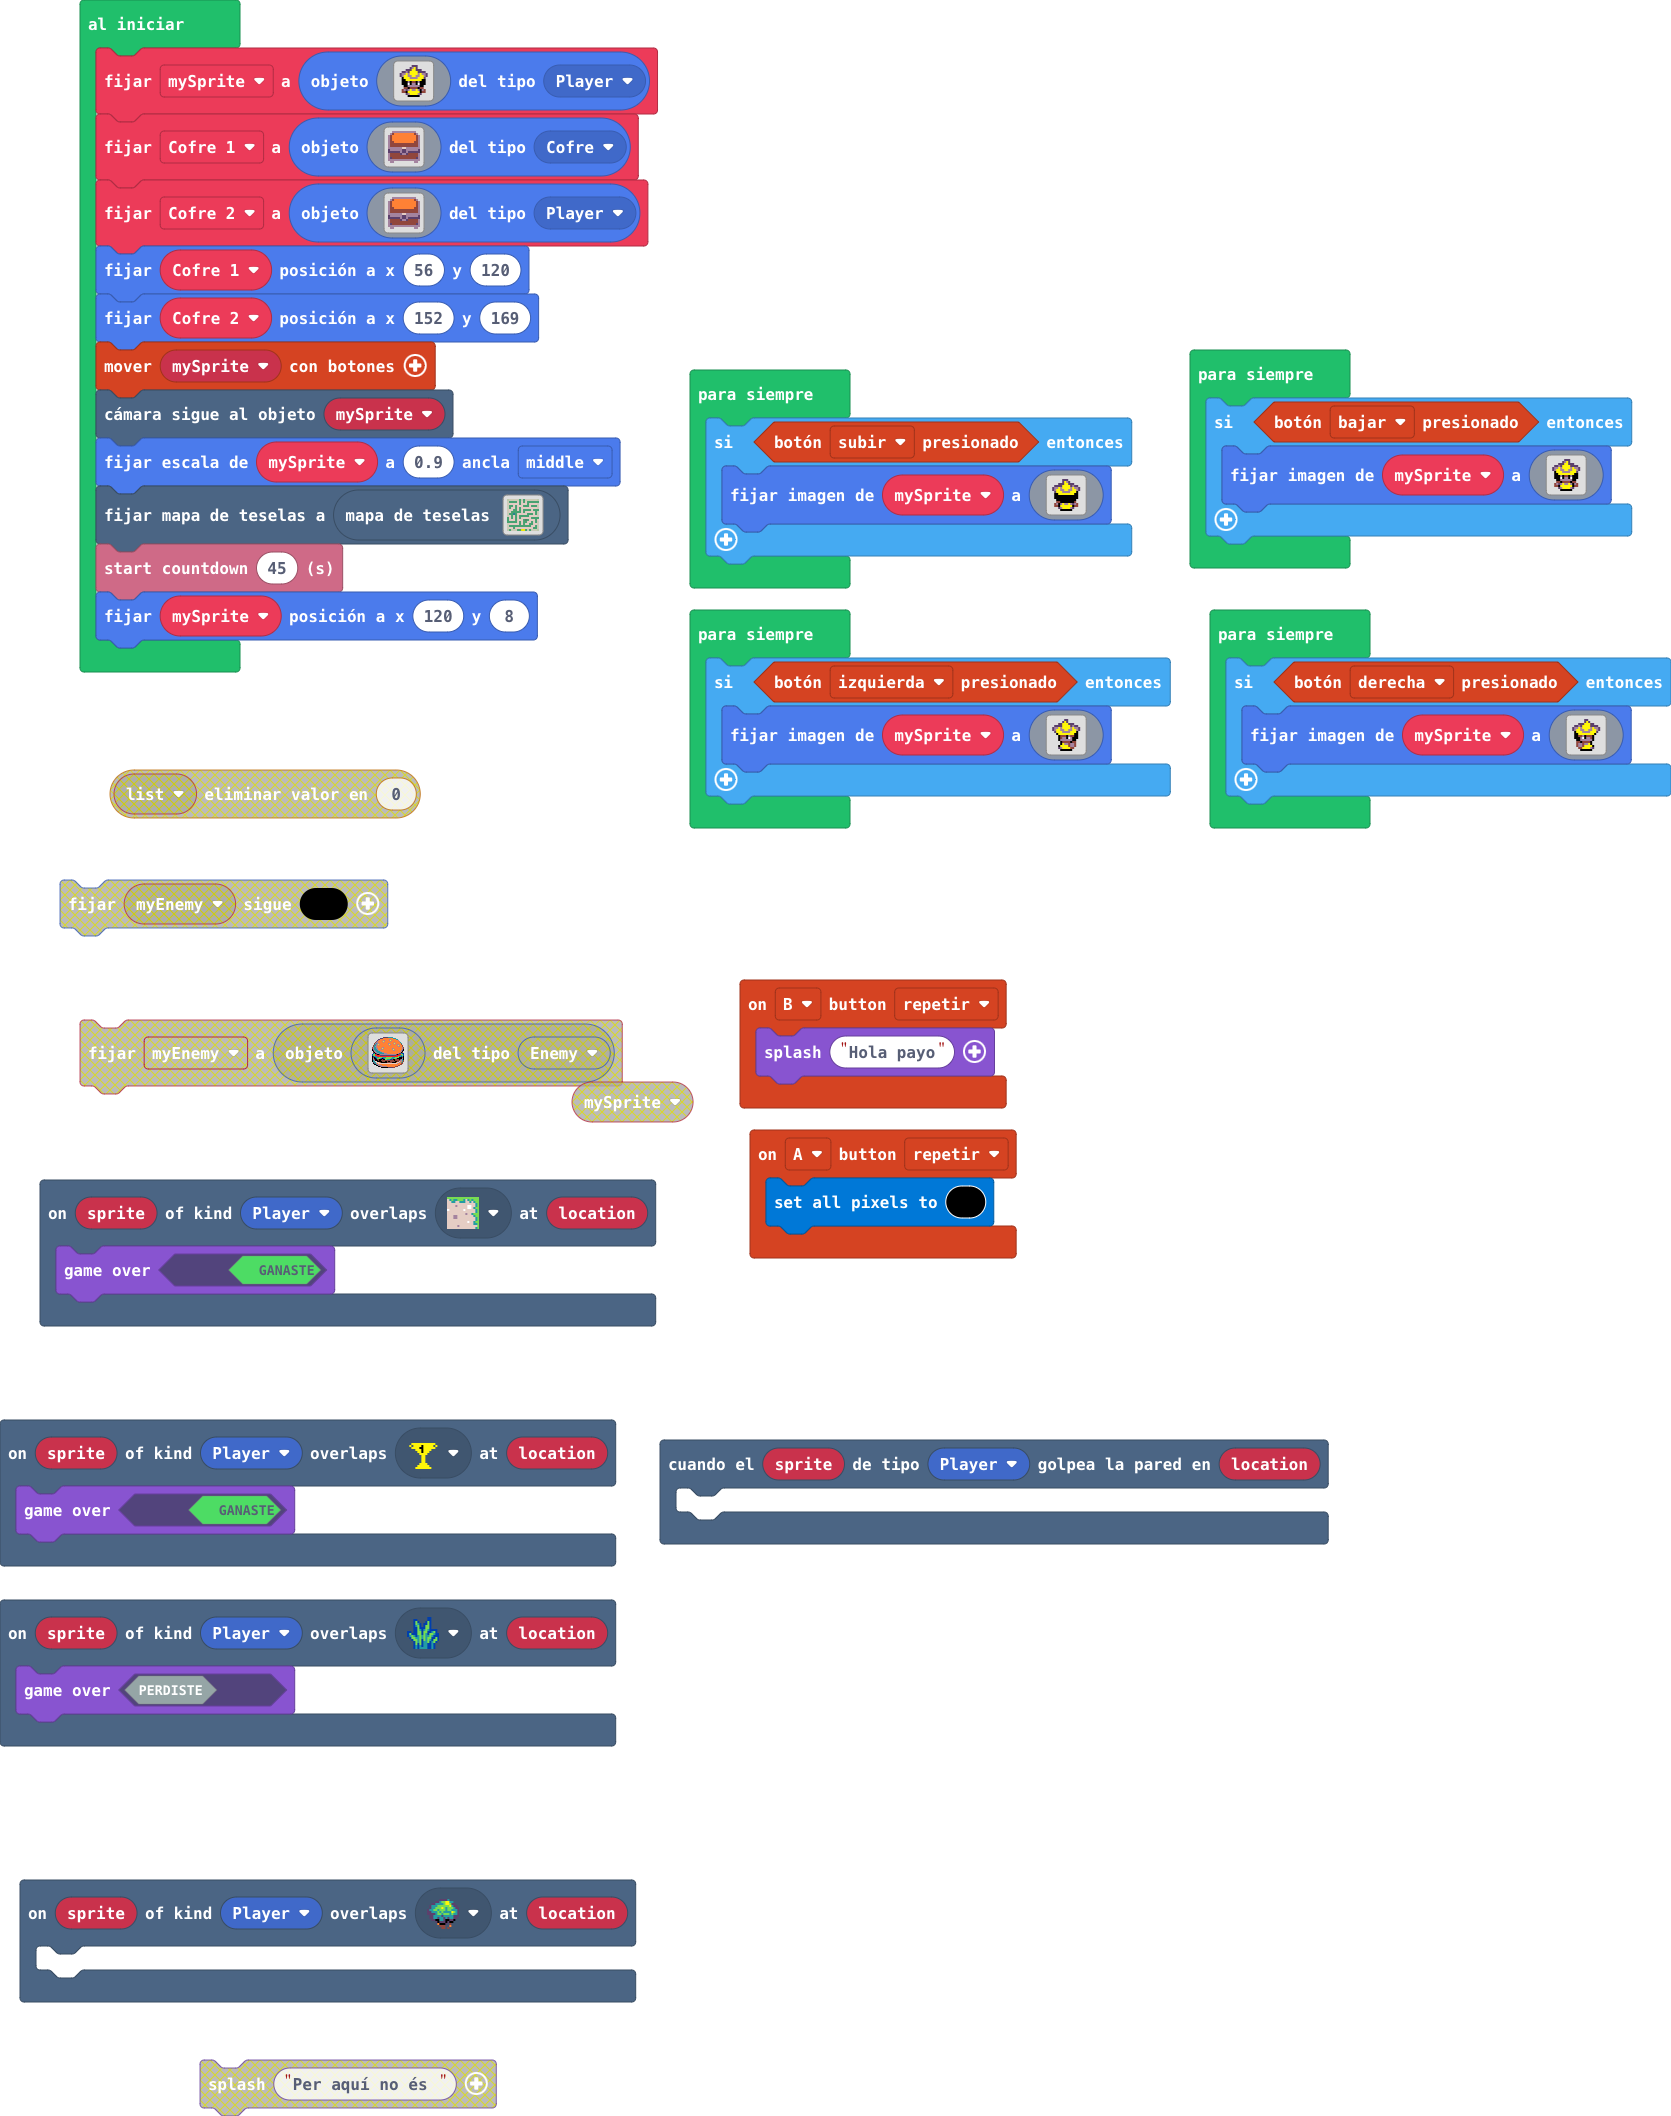
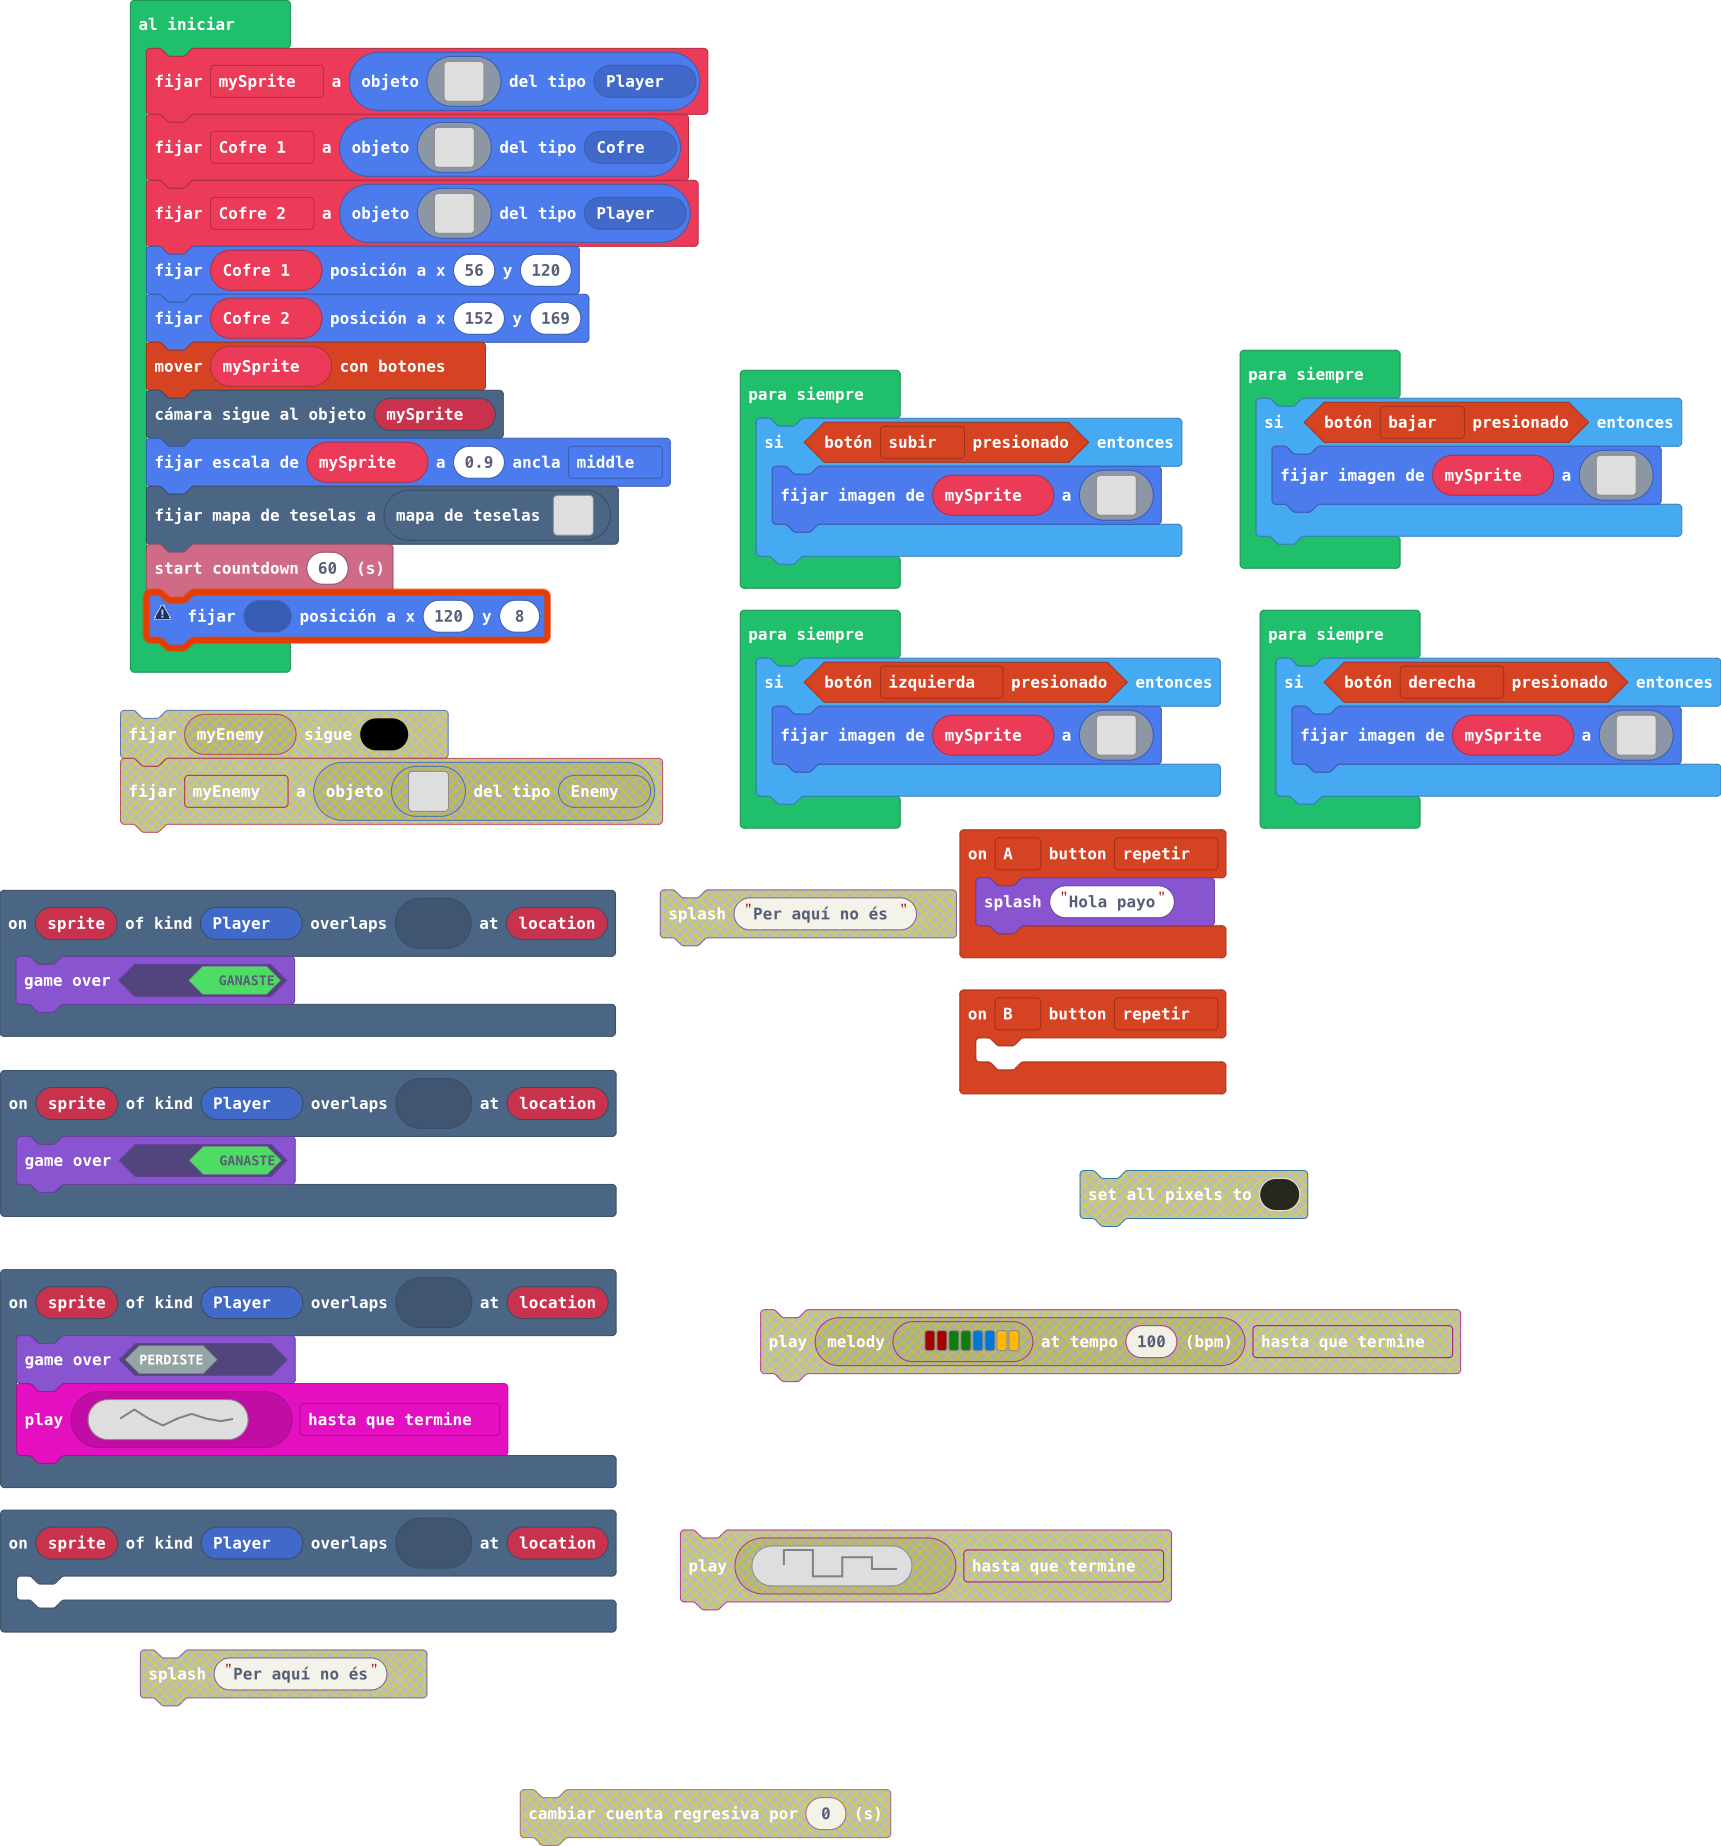
Actualizar main.blocks, main.ts

diff --git a/main.ts b/main.ts
@@ -3,17 +3,15 @@ namespace SpriteKind {
     export const Cofre = SpriteKind.create()
     export const Cofree = SpriteKind.create()
 }
-scene.onHitWall(SpriteKind.Player, function (sprite, location) {
-	
-})
 scene.onOverlapTile(SpriteKind.Player, sprites.swamp.swampTile3, function (sprite, location) {
     game.gameOver(false)
+    music.play(music.createSoundEffect(WaveShape.Triangle, 300, 200, 154, 0, 75, SoundExpressionEffect.None, InterpolationCurve.Curve), music.PlaybackMode.UntilDone)
 })
 scene.onOverlapTile(SpriteKind.Player, sprites.castle.tilePath3, function (sprite, location) {
     game.gameOver(true)
 })
 controller.A.onEvent(ControllerButtonEvent.Repeated, function () {
-    light.setAll(0x000000)
+    game.splash("Hola payo")
 })
 scene.onOverlapTile(SpriteKind.Player, assets.tile`Copa`, function (sprite, location) {
     game.gameOver(true)
@@ -22,7 +20,7 @@ scene.onOverlapTile(SpriteKind.Player, sprites.castle.saplingOak, function (spri
 	
 })
 controller.B.onEvent(ControllerButtonEvent.Repeated, function () {
-    game.splash("Hola payo")
+	
 })
 let mySprite = sprites.create(img`
     . . . . . . . c c c . . . . . . 
@@ -84,8 +82,8 @@ controller.moveSprite(mySprite)
 scene.cameraFollowSprite(mySprite)
 mySprite.setScale(0.9, ScaleAnchor.Middle)
 tiles.setCurrentTilemap(tilemap`Laberint`)
-info.startCountdown(45)
-mySprite.setPosition(120, 8)
+info.startCountdown(60)
+null.setPosition(120, 8)
 forever(function () {
     if (controller.up.isPressed()) {
         mySprite.setImage(img`
